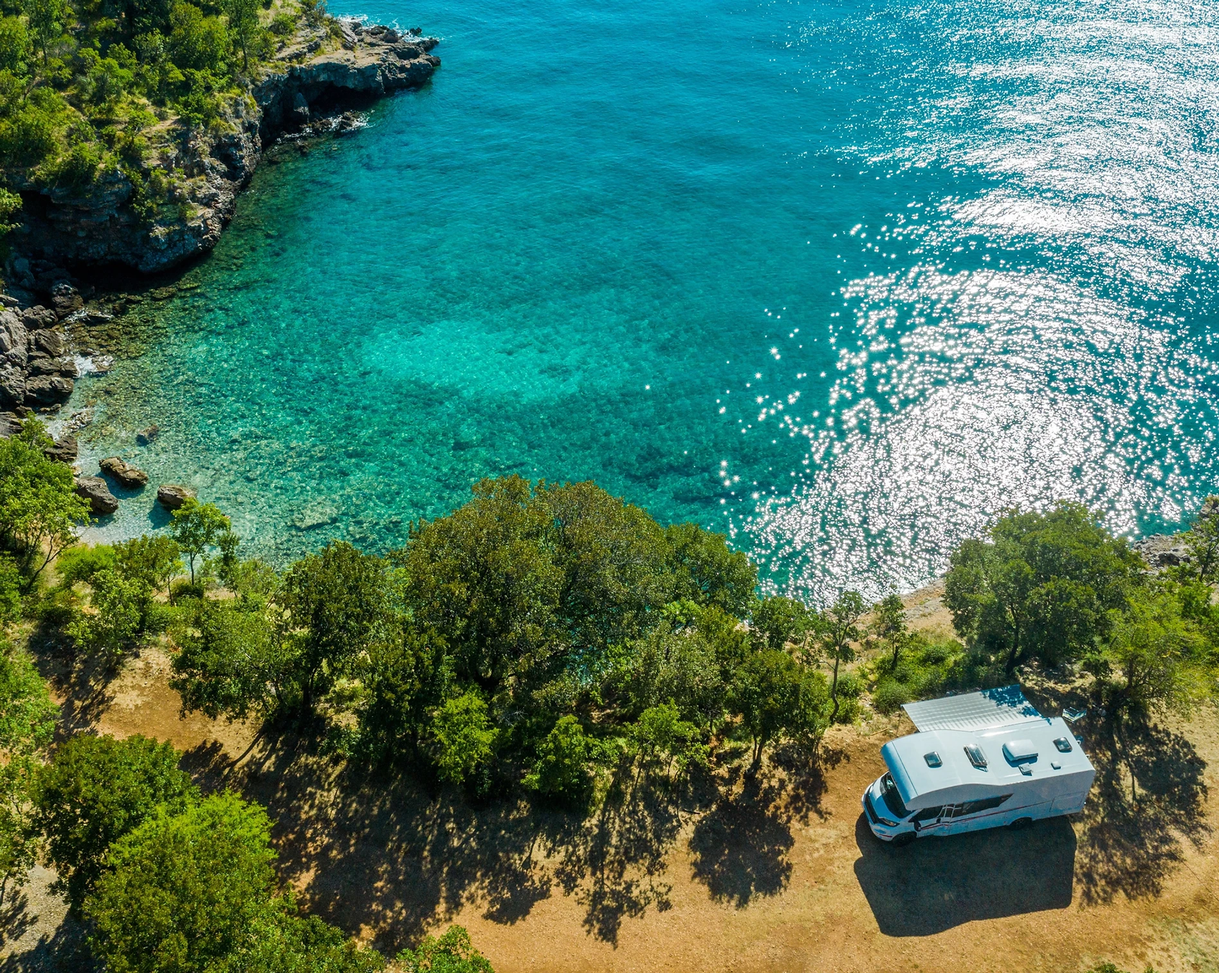
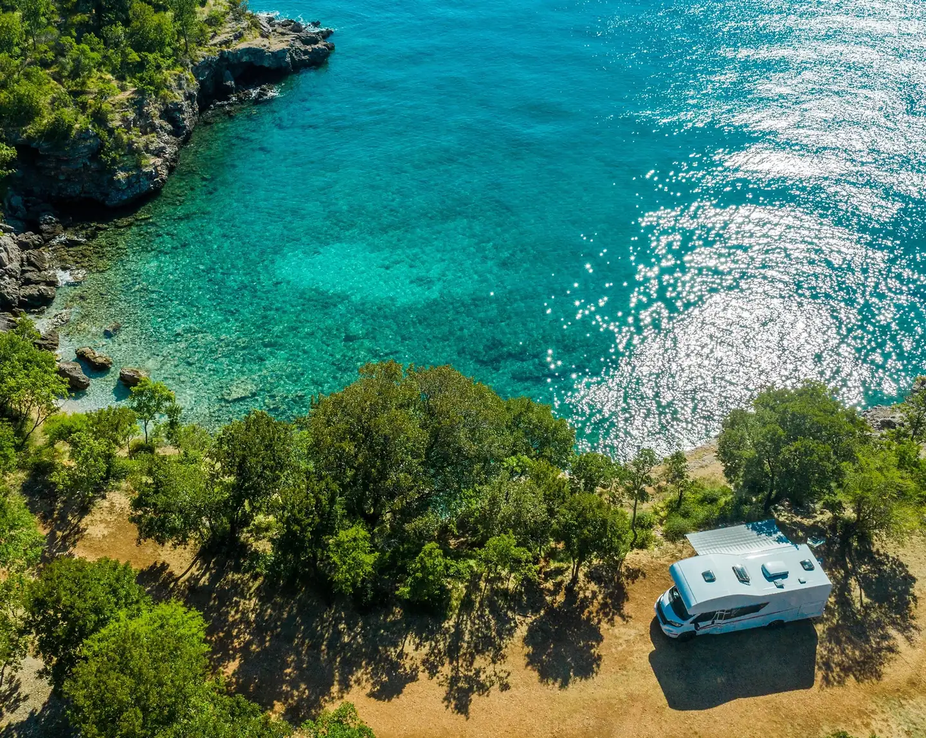
Speed and SEO clean-up: WebP photos, real titles and descriptions, accessible forms and links
- photos 01-04 (5-7.5 MB JPG each) -> 900 px WebP (about 50-100 KB each)
- hero background recompressed; portrait crop for phones; preloaded
- page titles, meta descriptions and Open Graph tags on all five pages
- Font Awesome CSS no longer blocks the first paint; removed link to missing responsive.css
- alt text, lazy loading, labels for form fields, crawlable links, main landmark

Changed region(s): [[0.7188, 0.0, 1.0, 0.3049], [0.9688, 0.0, 1.0, 0.0305]]

diff --git a/index.html b/index.html
@@ -3,18 +3,28 @@
 <head>
     <meta charset="UTF-8">
     <meta name="viewport" content="width=device-width, initial-scale=1.0">
-    <title>Document</title>
+    <title>RV Rentals in California | Dandy Campers</title>
+    <meta name="description" content="Rent a camper van or motorhome in California. Roadside assistance, unlimited miles and easy online booking with Dandy Campers.">
+    <meta property="og:type" content="website">
+    <meta property="og:site_name" content="Dandy Campers">
+    <meta property="og:title" content="RV Rentals in California | Dandy Campers">
+    <meta property="og:description" content="Rent a camper van or motorhome in California. Roadside assistance, unlimited miles and easy online booking with Dandy Campers.">
+    <meta name="theme-color" content="#2b7a4b">
     <link rel="stylesheet" href="./style.css">
-    <link rel="stylesheet" href="https://cdnjs.cloudflare.com/ajax/libs/font-awesome/6.5.2/css/all.min.css" integrity="sha512-SnH5WK+bZxgPHs44uWIX+LLJAJ9/2PkPKZ5QiAj6Ta86w+fsb2TkcmfRyVX3pBnMFcV7oQPJkl9QevSCWr3W6A==" crossorigin="anonymous" referrerpolicy="no-referrer" />
-    <link rel="stylesheet" href="./responsive.css">
+    <link rel="preconnect" href="https://cdnjs.cloudflare.com" crossorigin>
+    <link rel="preload" as="style" href="https://cdnjs.cloudflare.com/ajax/libs/font-awesome/6.5.2/css/all.min.css" integrity="sha512-SnH5WK+bZxgPHs44uWIX+LLJAJ9/2PkPKZ5QiAj6Ta86w+fsb2TkcmfRyVX3pBnMFcV7oQPJkl9QevSCWr3W6A==" crossorigin="anonymous" referrerpolicy="no-referrer" onload="this.onload=null;this.rel='stylesheet'">
+    <noscript><link rel="stylesheet" href="https://cdnjs.cloudflare.com/ajax/libs/font-awesome/6.5.2/css/all.min.css" integrity="sha512-SnH5WK+bZxgPHs44uWIX+LLJAJ9/2PkPKZ5QiAj6Ta86w+fsb2TkcmfRyVX3pBnMFcV7oQPJkl9QevSCWr3W6A==" crossorigin="anonymous" referrerpolicy="no-referrer"></noscript>
     <link rel="stylesheet" href="./rcponcive.css">
+    <link rel="preload" as="image" href="./image/camping-mobile.webp" media="(max-width: 768px) and (orientation: portrait)" fetchpriority="high">
+    <link rel="preload" as="image" href="./image/camping.webp" media="(min-width: 769px), (orientation: landscape)" fetchpriority="high">
+    <style>@media (max-width: 768px) and (orientation: portrait) { header { background-image: url(./image/camping-mobile.webp); } }</style>
 </head>
 <body>
 
     <header>
         <nav> 
 
-            <a href=""><img class="logo" src="./image/logo.png" alt=""></a>
+            <a href="./index.html" aria-label="Dandy Campers home"><img class="logo" src="./image/logo.png" alt="Dandy Campers RV Rentals logo"></a>
             
            <i id="toggleMenu"><i class="fa-solid fa-bars"></i></i>
      
@@ -32,12 +42,12 @@
                     <a id="dropown-chek" href="./rvs/rvs.html">RVs</a>
                  
                     <ul class="dropdown">
-                        <li><a href="#">EuroCamper</a></li>
-                        <li><a href="#">vanagon</a></li>
-                        <li><a href="#">Ranger van</a></li>
-                        <li><a href="#">Travel Triler</a></li>
-                        <li><a href="#">Flying Cloud</a></li>
-                        <li><a href="#">MotorHome</a></li>
+                        <li><a href="./rvs/rvs.html">EuroCamper</a></li>
+                        <li><a href="./rvs/rvs.html">vanagon</a></li>
+                        <li><a href="./rvs/rvs.html">Ranger van</a></li>
+                        <li><a href="./rvs/rvs.html">Travel Triler</a></li>
+                        <li><a href="./rvs/rvs.html">Flying Cloud</a></li>
+                        <li><a href="./rvs/rvs.html">MotorHome</a></li>
                     </ul>
                 </li>  
 
@@ -50,7 +60,7 @@
               
              <div class="overlay-btn-title">
                 <span class="camper-check-btn">CHeck Availability</span>
-                <a href="javascript:void(0)" class="closebtn" onclick="closeNav()">&times;</a>
+                <a href="#" role="button" aria-label="Close" class="closebtn" onclick="closeNav()">&times;</a>
              </div>
                 <div class="overlay-content">
 
@@ -62,7 +72,7 @@
                         <div class="pick-up">
                         
                         <label for="nav-select">Pick up*</label>
-                        <select class="nav-select back-color">
+                        <select aria-label="Pick-up location" class="nav-select back-color">
                             <option value=""></option>
                             <option>San Diego</option>
                             <option>malibu Beach</option>
@@ -73,7 +83,7 @@
                          
                     <div class="drop-off">
                         <label for="nav-select ">Drop Off*</label>
-                        <select class="nav-select back-color">
+                        <select aria-label="Drop-off location" class="nav-select back-color">
                             <option value=""></option>
                             <option>San Diego</option>
                             <option>malibu Beach</option>
@@ -86,12 +96,12 @@
                       <div class="date">
                          <div class="for-date">
                         <label for="date">Start Date*</label>
-                        <input class="back-color" name="date" type="date">
+                        <input aria-label="Date" class="back-color" name="date" type="date">
                          </div>
                          
                          <div class="for-date">
                         <label for="date">End Date*</label>
-                        <input class="back-color" name="date" type="date">
+                        <input aria-label="Date" class="back-color" name="date" type="date">
                          </div>
                       </div>
                          
@@ -100,12 +110,12 @@
                        <div class="number">
                             <div class="for-number">
                                 <label for="number">Number of passenger*</label>
-                                <input class="back-color" name="number" type="number">
+                                <input aria-label="Number of travellers" class="back-color" name="number" type="number">
                             </div>
 
                          <div class="for-number-rvs">
                             <label class="rvs-one" for="rvs">Rv Type</label>
-                            <select class="back-color"  name="rvs" id="">
+                            <select aria-label="RV type" class="back-color"  name="rvs" id="">
                                 <option value=""></option>
                                 <option value="">EuroCamper</option>
                                 <option value="">Vanagon</option>
@@ -128,24 +138,24 @@
                      <div class="name-lastname">
                             <div class="name-for-form">
                                 <label for="name">First Name</label>
-                                <input class="back-color" type="name" >
+                                <input aria-label="First name" class="back-color" type="name" >
                             </div>
                     
                             <div class="name-for-form">
                                 <label for="lastname">Last Name</label>
-                                <input class="back-color" type="lastname">
+                                <input aria-label="Last name" class="back-color" type="lastname">
                             </div>
                     </div>
 
                     <div class="name-lastname">
                         <div class="name-for-form">
                             <label for="name">First Name</label>
-                            <input class="back-color" type="name" >
+                            <input aria-label="First name" class="back-color" type="name" >
                         </div>
                 
                         <div class="name-for-form">
                             <label for="lastname">Last Name</label>
-                            <input class="back-color" type="lastname">
+                            <input aria-label="Last name" class="back-color" type="lastname">
                         </div>
                 </div>
             </div>
@@ -180,13 +190,14 @@
 
             <div class="title-two">
                 <p>Travel the way you want it</p>
-                <button><a href="">Check Availability</a></button>
+                <button><a href="./rvs/rvs.html">Check Availability</a></button>
                 
             </div>
 
          
       
     </header>
+<main style="display: contents">
 
 
    
@@ -215,7 +226,7 @@
      <div class="banner-card-car">
 
         <div class="car-img">
-            <img src="./image/car-girl.webp" alt="">
+            <img loading="lazy" decoding="async" src="./image/car-girl.webp" alt="Traveller sitting on the roof of a camper van">
         </div>
 
         <div class="car-text">
@@ -229,7 +240,7 @@
         <div class="banner-card-mount">
 
             <div class="mount-img">
-                <img src="./image/mount.webp" alt="">
+                <img loading="lazy" decoding="async" src="./image/mount.webp" alt="Camper van parked below a mountain">
             </div>
     
             <div class="mount-text">
@@ -266,7 +277,7 @@
     
 
       <div class="logo-ball">
-        <img src="./image/ball.PNG" alt="">
+        <img loading="lazy" decoding="async" src="./image/ball.PNG" alt="">
       </div>
 
      <div class="two-title">
@@ -321,8 +332,8 @@
 
 
         <div class="four-img">
-            <img class="image-one" src="./image/sectio-fourth(one).webp" alt="">
-            <img class="image-two" src="./image/fourthe-two.webp" alt="">
+            <img loading="lazy" decoding="async" class="image-one" src="./image/sectio-fourth(one).webp" alt="Camper van interior">
+            <img loading="lazy" decoding="async" class="image-two" src="./image/fourthe-two.webp" alt="Camper van on a forest road">
         </div>
 
 
@@ -340,7 +351,7 @@
     
 
       <div class="logo-ball-five">
-        <img src="./image/ball.PNG" alt="">
+        <img loading="lazy" decoding="async" src="./image/ball.PNG" alt="">
       </div>
 
      <div class="five-title">
@@ -420,7 +431,7 @@
   <div class="wrapper-section-eight">
 
     <div class="logo-ball-eight">
-        <img src="./image/ball.PNG" alt="">
+        <img loading="lazy" decoding="async" src="./image/ball.PNG" alt="">
       </div>
 
      <div class="eight-title">
@@ -438,7 +449,7 @@
 
 
         <div class="card-image">
-            <img src="./image/01.jpg" alt="" >
+            <img loading="lazy" decoding="async" src="./image/01.webp" alt="Camper van on the coast at sunset" >
 
 
             <div class="card-title">
@@ -451,7 +462,7 @@
         </div>
 
         <div class="card-image">
-            <img src="./image/02.jpg" alt="" >
+            <img loading="lazy" decoding="async" src="./image/02.webp" alt="Friends camping next to their RV" >
 
 
             <div class="card-title">
@@ -465,7 +476,7 @@
 
 
         <div class="card-image">
-            <img src="./image/03.jpg" alt="" >
+            <img loading="lazy" decoding="async" src="./image/03.webp" alt="Motorhome on a mountain road" >
 
 
             <div class="card-title">
@@ -478,7 +489,7 @@
         </div>
 
         <div class="card-image">
-            <img src="./image/04.jpg" alt="" >
+            <img loading="lazy" decoding="async" src="./image/04.webp" alt="Camper van at a lakeside campsite" >
 
 
             <div class="card-title">
@@ -500,12 +511,13 @@
 
 <!-- footer -->
 
+</main>
 <footer >
 
   <div class="footer-wrapper">
     <div class="footer-btn">
-         <a href=""><img class="logo" src="./image/logo-footer.PNG" alt=""></a>
-        <button><a href="">Check Availability</a></button>
+         <a href=""><img loading="lazy" decoding="async" class="logo" src="./image/logo-footer.PNG" alt="Dandy Campers logo"></a>
+        <button><a href="./rvs/rvs.html">Check Availability</a></button>
 
     </div>
 
@@ -552,30 +564,30 @@
     <div class="input">
         <div>
             <label for="name">First Name</label>
-            <input type="name" >
+            <input aria-label="First name" type="name" >
         </div>
 
         <div class="in">
             <label for="lastname">Last Name</label>
-            <input type="lastname">
+            <input aria-label="Last name" type="lastname">
         </div>
     </div>
     <div class="input">
         <div>
             <label for="Email">Email *</label>
-            <input type="email" >
+            <input aria-label="Email" type="email" >
         </div>
 
         <div>
             <label for="Subject">Subject</label>
-            <input type="Subject">
+            <input aria-label="Subject" type="Subject">
         </div>
         
     </div>
 
     <div class="massage">
         <label for="Message">Message *</label>
-        <input type="Message">
+        <input aria-label="Message" type="Message">
     </div>
 
 

diff --git a/rvs/rvs.html b/rvs/rvs.html
@@ -3,10 +3,18 @@
 <head>
     <meta charset="UTF-8">
     <meta name="viewport" content="width=device-width, initial-scale=1.0">
-    <title>Document</title>
+    <title>Our RVs: Camper Vans and Motorhomes | Dandy Campers</title>
+    <meta name="description" content="Browse the Dandy Campers fleet: camper vans, travel trailers and motorhomes for rent in California.">
+    <meta property="og:type" content="website">
+    <meta property="og:site_name" content="Dandy Campers">
+    <meta property="og:title" content="Our RVs: Camper Vans and Motorhomes | Dandy Campers">
+    <meta property="og:description" content="Browse the Dandy Campers fleet: camper vans, travel trailers and motorhomes for rent in California.">
+    <meta name="theme-color" content="#2b7a4b">
     <link rel="stylesheet" href="./rvs.css">
  <link rel="stylesheet" href="./rvs.recponcive.css">
-    <link rel="stylesheet" href="https://cdnjs.cloudflare.com/ajax/libs/font-awesome/6.5.2/css/all.min.css" integrity="sha512-SnH5WK+bZxgPHs44uWIX+LLJAJ9/2PkPKZ5QiAj6Ta86w+fsb2TkcmfRyVX3pBnMFcV7oQPJkl9QevSCWr3W6A==" crossorigin="anonymous" referrerpolicy="no-referrer" />
+    <link rel="preconnect" href="https://cdnjs.cloudflare.com" crossorigin>
+    <link rel="preload" as="style" href="https://cdnjs.cloudflare.com/ajax/libs/font-awesome/6.5.2/css/all.min.css" integrity="sha512-SnH5WK+bZxgPHs44uWIX+LLJAJ9/2PkPKZ5QiAj6Ta86w+fsb2TkcmfRyVX3pBnMFcV7oQPJkl9QevSCWr3W6A==" crossorigin="anonymous" referrerpolicy="no-referrer" onload="this.onload=null;this.rel='stylesheet'">
+    <noscript><link rel="stylesheet" href="https://cdnjs.cloudflare.com/ajax/libs/font-awesome/6.5.2/css/all.min.css" integrity="sha512-SnH5WK+bZxgPHs44uWIX+LLJAJ9/2PkPKZ5QiAj6Ta86w+fsb2TkcmfRyVX3pBnMFcV7oQPJkl9QevSCWr3W6A==" crossorigin="anonymous" referrerpolicy="no-referrer"></noscript>
 </head>
 <body>
     <header>

diff --git a/FAQ/faq.html b/FAQ/faq.html
@@ -3,10 +3,18 @@
 <head>
     <meta charset="UTF-8">
     <meta name="viewport" content="width=device-width, initial-scale=1.0">
-    <title>Document</title>
+    <title>FAQ | Dandy Campers RV Rentals</title>
+    <meta name="description" content="Answers to common questions about renting an RV with Dandy Campers: booking, insurance, mileage and pick-up.">
+    <meta property="og:type" content="website">
+    <meta property="og:site_name" content="Dandy Campers">
+    <meta property="og:title" content="FAQ | Dandy Campers RV Rentals">
+    <meta property="og:description" content="Answers to common questions about renting an RV with Dandy Campers: booking, insurance, mileage and pick-up.">
+    <meta name="theme-color" content="#2b7a4b">
     <link rel="stylesheet" href="./faq.css">
     <link rel="stylesheet" href="./faq.recponcive.css">
-    <link rel="stylesheet" href="https://cdnjs.cloudflare.com/ajax/libs/font-awesome/6.5.2/css/all.min.css" integrity="sha512-SnH5WK+bZxgPHs44uWIX+LLJAJ9/2PkPKZ5QiAj6Ta86w+fsb2TkcmfRyVX3pBnMFcV7oQPJkl9QevSCWr3W6A==" crossorigin="anonymous" referrerpolicy="no-referrer" />
+    <link rel="preconnect" href="https://cdnjs.cloudflare.com" crossorigin>
+    <link rel="preload" as="style" href="https://cdnjs.cloudflare.com/ajax/libs/font-awesome/6.5.2/css/all.min.css" integrity="sha512-SnH5WK+bZxgPHs44uWIX+LLJAJ9/2PkPKZ5QiAj6Ta86w+fsb2TkcmfRyVX3pBnMFcV7oQPJkl9QevSCWr3W6A==" crossorigin="anonymous" referrerpolicy="no-referrer" onload="this.onload=null;this.rel='stylesheet'">
+    <noscript><link rel="stylesheet" href="https://cdnjs.cloudflare.com/ajax/libs/font-awesome/6.5.2/css/all.min.css" integrity="sha512-SnH5WK+bZxgPHs44uWIX+LLJAJ9/2PkPKZ5QiAj6Ta86w+fsb2TkcmfRyVX3pBnMFcV7oQPJkl9QevSCWr3W6A==" crossorigin="anonymous" referrerpolicy="no-referrer"></noscript>
 </head>
 <body>
     

diff --git a/RoadTrip/road.html b/RoadTrip/road.html
@@ -3,10 +3,18 @@
 <head>
     <meta charset="UTF-8">
     <meta name="viewport" content="width=device-width, initial-scale=1.0">
-    <title>Document</title>
+    <title>Road Trips in California | Dandy Campers</title>
+    <meta name="description" content="Road trip ideas and routes across California for your camper van or motorhome rental.">
+    <meta property="og:type" content="website">
+    <meta property="og:site_name" content="Dandy Campers">
+    <meta property="og:title" content="Road Trips in California | Dandy Campers">
+    <meta property="og:description" content="Road trip ideas and routes across California for your camper van or motorhome rental.">
+    <meta name="theme-color" content="#2b7a4b">
     <link rel="stylesheet" href="./road.css">
     <link rel="stylesheet" href="./road.recponcive.css">
-    <link rel="stylesheet" href="https://cdnjs.cloudflare.com/ajax/libs/font-awesome/6.5.2/css/all.min.css" integrity="sha512-SnH5WK+bZxgPHs44uWIX+LLJAJ9/2PkPKZ5QiAj6Ta86w+fsb2TkcmfRyVX3pBnMFcV7oQPJkl9QevSCWr3W6A==" crossorigin="anonymous" referrerpolicy="no-referrer" />
+    <link rel="preconnect" href="https://cdnjs.cloudflare.com" crossorigin>
+    <link rel="preload" as="style" href="https://cdnjs.cloudflare.com/ajax/libs/font-awesome/6.5.2/css/all.min.css" integrity="sha512-SnH5WK+bZxgPHs44uWIX+LLJAJ9/2PkPKZ5QiAj6Ta86w+fsb2TkcmfRyVX3pBnMFcV7oQPJkl9QevSCWr3W6A==" crossorigin="anonymous" referrerpolicy="no-referrer" onload="this.onload=null;this.rel='stylesheet'">
+    <noscript><link rel="stylesheet" href="https://cdnjs.cloudflare.com/ajax/libs/font-awesome/6.5.2/css/all.min.css" integrity="sha512-SnH5WK+bZxgPHs44uWIX+LLJAJ9/2PkPKZ5QiAj6Ta86w+fsb2TkcmfRyVX3pBnMFcV7oQPJkl9QevSCWr3W6A==" crossorigin="anonymous" referrerpolicy="no-referrer"></noscript>
 </head>
 <body>
     

diff --git a/About/about.html b/About/about.html
@@ -3,7 +3,13 @@
 <head>
     <meta charset="UTF-8">
     <meta name="viewport" content="width=device-width, initial-scale=1.0">
-    <title>Document</title>
+    <title>About Us | Dandy Campers RV Rentals</title>
+    <meta name="description" content="Meet Dandy Campers: a California RV rental team that helps you travel the way you want.">
+    <meta property="og:type" content="website">
+    <meta property="og:site_name" content="Dandy Campers">
+    <meta property="og:title" content="About Us | Dandy Campers RV Rentals">
+    <meta property="og:description" content="Meet Dandy Campers: a California RV rental team that helps you travel the way you want.">
+    <meta name="theme-color" content="#2b7a4b">
     <link rel="stylesheet" href="./about.css">
 </head>
 <body>
